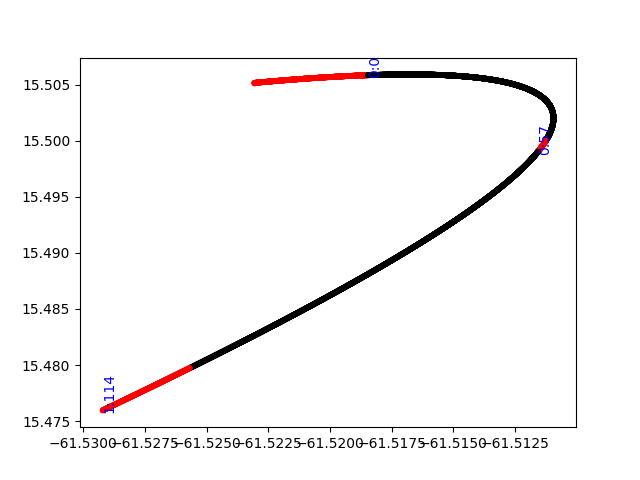
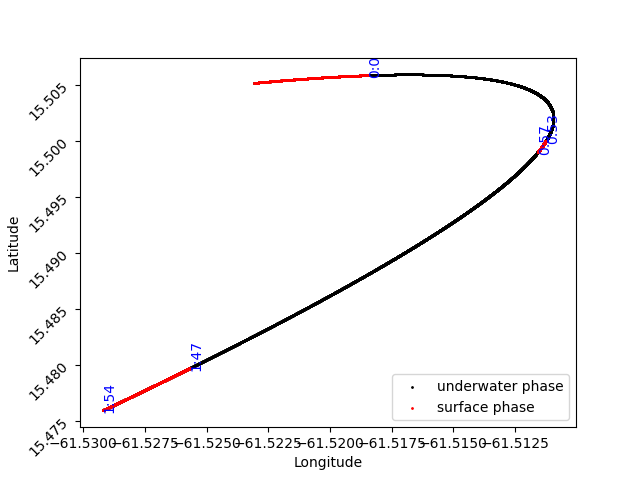
adding labels in whale traces

diff --git a/Autonomy_module/src/parse_dswp_data.py b/Autonomy_module/src/parse_dswp_data.py
@@ -349,7 +349,7 @@ def generate_trajectories_v2(last_seen_points, knowledge: Global_knowledge, plot
         
     if not plot_not_save:
         for (xe,ye,t) in list(zip(last_seen_points['xs'], last_seen_points['ys'], last_seen_points['ts'])):
-            plt.text(xe, ye, s = str(int(t/3600))+':'+str(int(t/60)), rotation = 90, c = 'blue')
+            plt.text(xe, ye, s = str(int(t/3600))+':'+str(int(time_str/60) -  int(t/3600) * 60), rotation = 90, c = 'blue')
         
     return whale_states, scenario
 
@@ -366,3 +366,71 @@ if __name__ == '__main__':
         full_traceback = traceback.extract_tb(e.__traceback__)
         filename, lineno, funcname, text = full_traceback[-1]
         print("Error in ", filename, " line:", lineno, " func:", funcname, ", exception:", e)
+
+
+if __name__ == '__main__generate_whale_trace_pngs':
+
+    directory = 'dswp_parsed_data_moving_sensors/'
+    for fn in os.listdir(directory):
+        xy_filename = os.path.join(directory, fn)
+        if os.path.isfile(xy_filename) and 'ground_truth.csv' not in xy_filename:
+            continue
+        whale_trace_old = pd.read_csv(xy_filename, \
+            names=['sensor_sec', 'w_long', 'w_lat', 'c_long', 'c_lat', 'fluke_angle'], header=None)
+        whale_trace_old = whale_trace_old.sort_values(by=['sensor_sec'])
+
+        k_ = 2
+        t_min = min(whale_trace_old['sensor_sec'].values)
+        t_max = max(whale_trace_old['sensor_sec'].values)
+        time_series = np.arange(t_min, t_max + 1)
+        x_tck = interpolate.splrep(whale_trace_old['sensor_sec'].values, whale_trace_old['w_long'].values, k = k_)
+        x_coords = interpolate.splev(time_series, x_tck)
+        y_tck = interpolate.splrep(whale_trace_old['sensor_sec'].values, whale_trace_old['w_lat'].values, k = k_)
+        y_coords = interpolate.splev(time_series, y_tck)
+        whale_trace = pd.DataFrame({'sensor_sec': time_series, 'w_long': x_coords, 'w_lat': y_coords})
+
+        xs = whale_trace['w_long'].values
+        ys = whale_trace['w_lat'].values
+        # cs = ['red' if w == 'G' else 'black' for w in whale_trace['sensor_name'].values]
+        plt.scatter(xs, ys, c = 'black', s = 1, label = 'underwater phase')
+            
+        surface_time_filename = directory + fn.replace('ground_truth.csv', 'surface_interval.csv')
+        surface_time_df = pd.read_csv(surface_time_filename, \
+            names=['surface_start', 'surface_stop', 'fluke_camera_aoa'], header=None)
+        start_time_rows = surface_time_df.merge(whale_trace, left_on='surface_start', right_on='sensor_sec')
+        end_time_rows = surface_time_df.merge(whale_trace, left_on='surface_stop', right_on='sensor_sec')
+
+        f_row = 0
+        for _, surface_row in surface_time_df.iterrows():
+            whale_trace_sur = whale_trace[((whale_trace['sensor_sec']>=surface_row['surface_start']) & \
+                (whale_trace['sensor_sec']<=surface_row['surface_stop'])) ]
+            
+            if f_row > 0:
+                plt.scatter(whale_trace_sur['w_long'].values, whale_trace_sur['w_lat'].values, c = 'red', s = 1)
+            else:
+                plt.scatter(whale_trace_sur['w_long'].values, whale_trace_sur['w_lat'].values, c = 'red', s = 1, label = 'surface phase')
+            f_row += 1
+        for _, start_time_row in start_time_rows.iterrows():
+            time_str = start_time_row['sensor_sec']
+            hour = int(time_str/3600)
+            minute = int(time_str/60) -  hour * 60
+            if hour < 0 or minute < 0:
+                continue  
+            time_str = str(hour) + ':' + str(minute)
+            plt.text(start_time_row['w_long'], start_time_row['w_lat'], s = time_str, rotation = 90, c = 'blue')
+
+        for _, end_time_row in end_time_rows.iterrows():
+            time_str = end_time_row['sensor_sec']
+            hour = int(time_str/3600)
+            minute = int(time_str/60) -  hour * 60
+            if hour < 0 or minute < 0:
+                continue  
+            time_str = str(hour) + ':' + str(minute)
+            plt.text(end_time_row['w_long'], end_time_row['w_lat'], s = time_str, rotation = 90, c = 'blue')
+
+        plt.xlabel('Longitude')
+        plt.ylabel('Latitude')
+        plt.yticks(rotation = 45)
+        plt.legend()
+        plt.savefig(directory + 'whale_track_' + fn.replace('ground_truth.csv', '') + '.png')
+        plt.cla()

diff --git a/README.md b/README.md
@@ -36,6 +36,7 @@ dswp_parsed_data_moving_sensors
 |- yyyy-mm-dd_####ground_truth.csv
 |- yyyy-mm-dd_####surface_interval.csv
 |- yyyy-mm-dd_####xy.csv
+|- whale_track_yyyy-mm-dd_####.png
 |- ...
 ```
 
@@ -48,21 +49,28 @@ dswp_parsed_data_moving_sensors
 <li>
 
 `yyyy-mm-dd_####aoa.csv`: each line has the time in seconds, sensor longitude, sensor latitude, angle of arrival obtained from the sensor, angle of arrival candidate 1 due to left-right ambiguity, angle of arrival candidate 2 due to left-right ambiguity, standard deviation (in degree) of zero mean gaussian error of the sensor, sensor type ('A' for acoustic and 'V' for VHF).
+The fourth column (angle of arrival obtained from the sensor) may be left blank if both candidates for aoa is present.
 </li>
 
 <li>
 
-`yyyy-mm-dd_####ground_truth.csv'`: each line has the time in seconds, fluke longitude, fluke latitude, camera lonitude, camera latitude, fluke angle in degree
+`yyyy-mm-dd_####ground_truth.csv`: each line has the time in seconds, fluke longitude, fluke latitude, camera lonitude, camera latitude, fluke angle in degree.
+Since the camera location and fluke angle are not used in the ablation study, the last 3 columns are blank.
 </li>
 
 <li>
 
-`yyyy-mm-dd_####surface_interval.csv`: each line has the surface interval start time in minutes, surface interval end time in minutes, and the fluke angle in degrees 
+`yyyy-mm-dd_####surface_interval.csv`: each line has the surface interval start time in minutes, surface interval end time in minutes, and the fluke angle in degrees.
+If the fluke angle is not obtained it is set to None.
 </li>
 
 <li>
 
 `yyyy-mm-dd_####xy.csv`: each line has the time in seconds, the longitude of a whale with sensing error, the latitude of a whale with sensing error, the standard deviation of the longitude of whale location, the standard deviation of the latitude of whale location, sensor type ('U' for underwater location, 'G' for GPS)
+</li>
+<li>
+
+`whale_track_yyyy-mm-dd_####.png`: visulization of the whale trace in GPS coordinates. The surface phase is indcated in red, and the underwater phase is indicated in black. The surface interval start and end times are indicated in HH:MM format in the figure. The times in the figure are calculated from start of the trace.
 </li>
 </ul>
 
@@ -281,21 +289,6 @@ d. The RPI_SDR_data_collection_code has the python scripts to get data from the 
 
 The position and GPS data (for groundtruth) needs to be collected usign the mavros API and ROS package ceti\_sar. The data format is in the corresponding csv files (ori_data).
 
-<!--
-## Instructions on executing the sensing code.
-1. These matlab files are for regenerating the AOA profiles using the data collected for hardware experiments. 
-Install the BLAS and LAPACK libraries.
-E.g. on ubuntu 
-sudo apt-get install libblas-dev liblapack-dev
-Open matlab and run following commands:
-    - Configure the mtimex.c file 
-mex -L/usr/lib -lblas -llapack mtimesx.c
-    - execute code (to process all data), check the config_values_for_different_datasets for the parameter values.
-bulk_process_aoa_drone_sdr_local_position('Datasets/Dataset_Sci-robotics-Dominica_set_1-11-21-2023-Dominica/Location_A/Experiment_1/iq_data', 'Datasets/Dataset_Sci-robotics-Dominica_set_1-11-21-2023-Dominica/Location_A/Experiment_1/ori_data', 'Datasets/Dataset_Sci-robotics-Dominica_set_1-11-21-2023-Dominica/Location_A/Experiment_1/gps_data', 'Datasets/Dataset_Sci-robotics-Dominica_set_1-11-21-2023-Dominica/Location_A/Experiment_1/gps_data_tx')
-    - For realtime time implementation using ROS, use the get_aoa_drone_sdr_local_position_ros.m instead
-    - The RPI_SDR_data_collection_code has the python scripts to get data from the SDR. It requires configuing the SoapySDR : https://github.com/pothosware/SoapySDR dependencies.
-The position and GPS data (for groundtruth) needs to be collected usign the mavros API. The data format is in the correspoding csv files (ori_data).
--->
 
 # References
 [1] Gero, S., Milligan, M., Scotia, N., Rinaldi, C., Francis, P., Gordon, J., Carlson, C. A., Steffen, A.,
